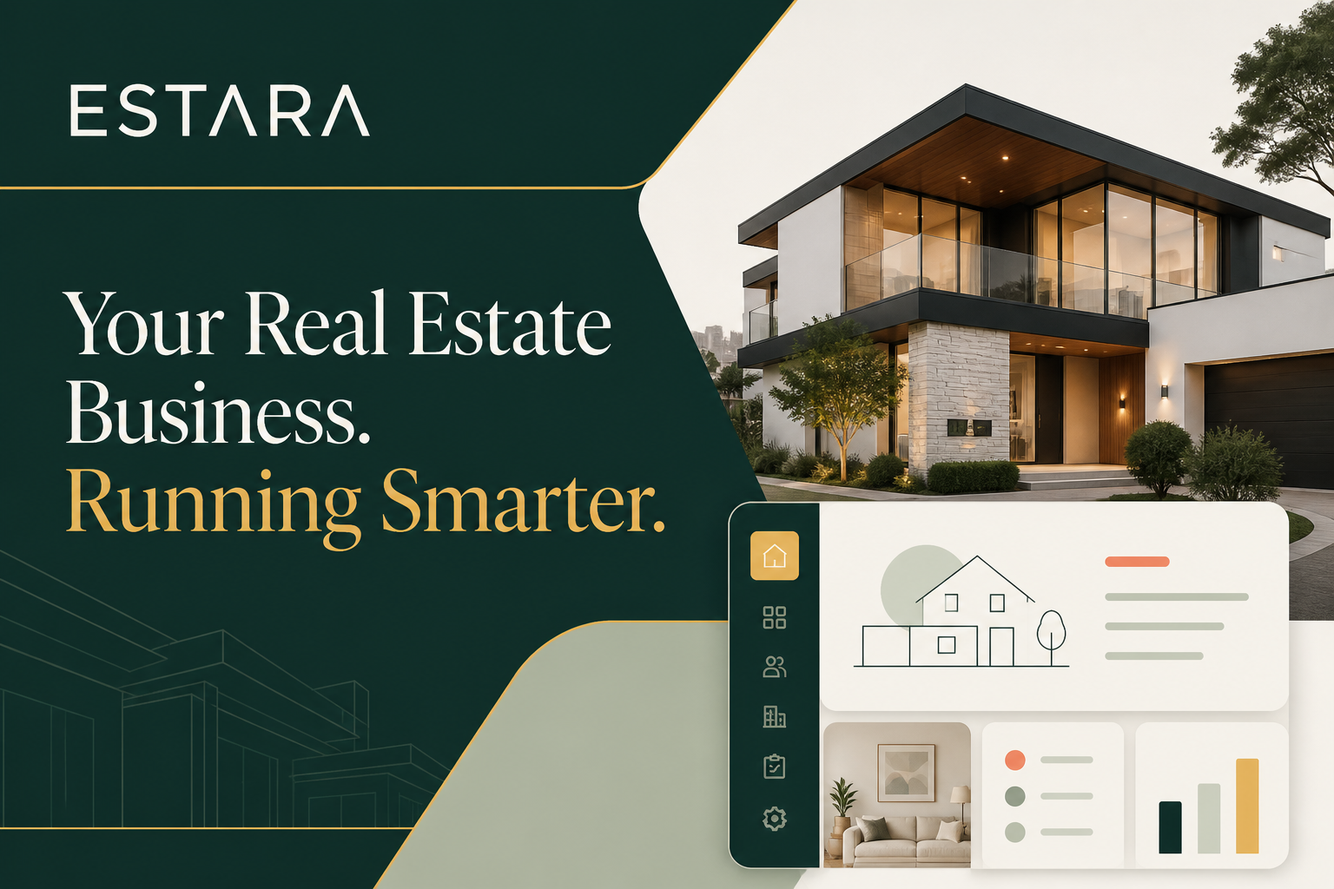
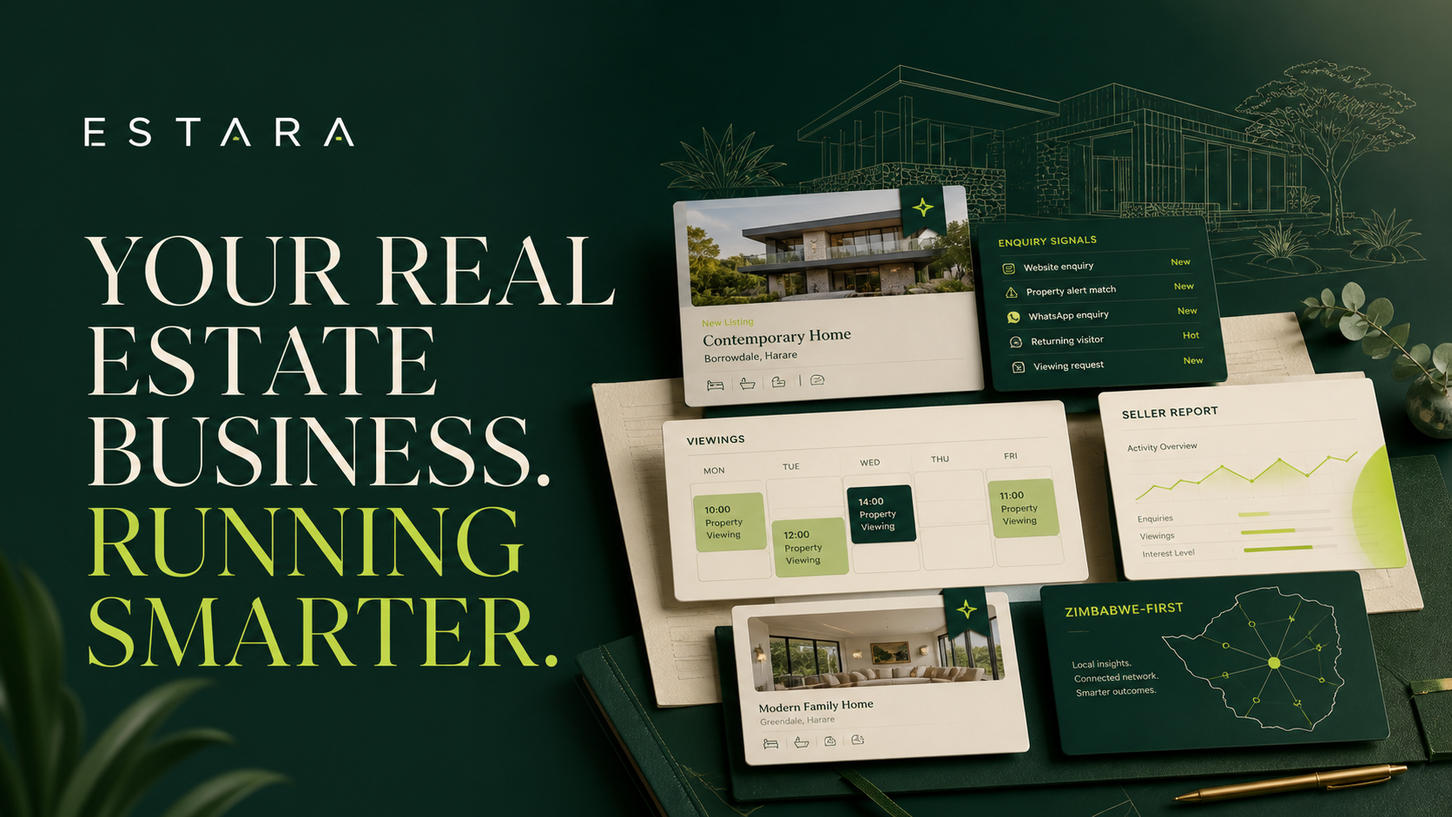
Add premium ESTARA landing and visual system

diff --git a/app/globals.css b/app/globals.css
@@ -8,3 +8,4 @@
 .property-list .thumb{width:58px;height:58px;object-fit:cover;border-radius:8px}.media-upload{display:flex;align-items:center;gap:10px;border:1px dashed #b7c9c2;background:#f5f8f6;border-radius:10px;padding:13px;margin:16px 0;cursor:pointer}.media-upload strong{font-size:11px}.media-upload small{color:var(--muted);margin-right:auto}.media-upload input{max-width:230px}.media-strip{display:flex;gap:8px;overflow:auto}.media-strip img{width:88px;height:68px;object-fit:cover;border-radius:8px}.logo-upload{display:grid!important;grid-template-columns:100px 1fr;align-items:center;gap:8px}.logo-upload img{grid-row:1/4;width:84px;height:84px;object-fit:contain;border:1px solid var(--line);border-radius:10px;padding:6px}.logo-upload small{color:var(--muted)}.caption-preview{min-height:430px;border-radius:12px;background:#f4f7f5;padding:45px;display:flex;flex-direction:column;justify-content:center}.caption-preview small{color:var(--green);font-weight:800}.caption-preview p{font:24px/1.6 Georgia,serif;color:var(--ink)}
 .public-brand>img{width:52px;height:52px;object-fit:contain;border-radius:8px;background:#fff}
 .seller-open{text-decoration:none}.seller-admin-hero{display:grid;grid-template-columns:1.2fr .8fr;gap:32px;padding:34px;border-radius:18px;background:linear-gradient(125deg,#113d34,#1d5a4c);color:#fff;box-shadow:var(--shadow);margin-bottom:20px}.seller-admin-hero>div>span,.seller-public section>div>span,.seller-trust>span,.seller-report-card>div>span{font-size:9px;letter-spacing:.14em;color:var(--gold);font-weight:800}.seller-admin-hero h2{font:32px/1.1 Georgia,serif;margin:12px 0}.seller-admin-hero p{color:#c8ded6;line-height:1.6}.seller-admin-hero form{background:#fff;color:var(--ink);border-radius:12px;padding:18px;display:grid;gap:12px}.seller-admin-hero label{font-size:9px;font-weight:800}.seller-admin-hero input,.seller-admin-hero select{display:block;width:100%;margin-top:6px;border:1px solid var(--line);border-radius:8px;padding:10px}.seller-admin-grid{display:grid;grid-template-columns:.8fr 1.2fr;gap:18px}.seller-admin-row{display:grid;grid-template-columns:1fr auto auto;align-items:center;gap:10px;padding:14px 18px;border-top:1px solid var(--line)}.seller-admin-row strong,.seller-admin-row small{display:block}.seller-admin-row small{color:var(--muted);margin-top:4px}.seller-admin-row em,.seller-report-row em{font-style:normal;font-size:8px;text-transform:uppercase;padding:5px 7px;border-radius:99px;background:#f6edd2;color:#795d12}.seller-admin-row em.accepted{background:#e5f3ec;color:#205b4d}.seller-admin-row em.revoked{background:#f8e8e4;color:#9b4033}.seller-report-row{padding:18px;border-top:1px solid var(--line)}.seller-report-row strong,.seller-report-row small{display:block}.seller-report-row small{color:var(--muted);margin-top:5px}.seller-report-row p{line-height:1.55;color:#50655e}.seller-report-row footer{display:flex;align-items:center;justify-content:space-between}.seller-public{--seller-green:#123e35;min-height:100vh;background:#f4f3ee;color:#17362f;font-family:Arial,sans-serif}.seller-public *{box-sizing:border-box}.seller-public>header{height:84px;padding:0 clamp(18px,6vw,84px);display:flex;align-items:center;justify-content:space-between;background:#fff;border-bottom:1px solid #dce5e0}.seller-public>header>div{display:flex;align-items:center;gap:16px;font-size:10px}.seller-public>header a{color:#17362f;font-weight:800}.seller-wordmark i{width:42px;height:42px;border-radius:12px;background:#123e35;color:#e9c665;display:grid;place-items:center;font-style:normal;font:700 14px Georgia,serif}.seller-wordmark strong,.seller-wordmark small{display:block}.seller-wordmark small{font-size:7px;letter-spacing:.1em;color:#72847d;margin-top:3px}.seller-cover{min-height:430px;padding:70px clamp(24px,8vw,120px);display:flex;justify-content:space-between;align-items:end;background:linear-gradient(110deg,#123e35,#246553);background-size:cover;background-position:center;color:#fff}.seller-cover h1{font:clamp(42px,6vw,76px)/1 Georgia,serif;max-width:820px;margin:14px 0}.seller-cover p{color:#d4e3dd}.seller-cover select{margin-top:18px;padding:10px 12px;border:1px solid #ffffff55;border-radius:8px;background:#ffffff15;color:#fff}.seller-cover aside{text-align:right}.seller-cover aside em{display:block;font-style:normal;color:#e9c665;font:36px Georgia,serif}.seller-cover aside small{color:#c4d8d0}.seller-metrics{display:grid;grid-template-columns:repeat(3,1fr);margin:-34px auto 0;position:relative;width:min(1050px,calc(100% - 36px));background:#fff;border-radius:16px;box-shadow:0 20px 60px #17362f1c}.seller-metrics article{padding:28px 34px;border-right:1px solid #e0e7e3}.seller-metrics article:last-child{border:0}.seller-metrics strong{display:block;font:40px Georgia,serif}.seller-metrics span{font-size:9px;color:#6d7d77}.seller-report-grid{display:grid;grid-template-columns:1.35fr .65fr;gap:24px;width:min(1180px,calc(100% - 36px));margin:55px auto;padding-bottom:70px}.seller-report-card,.seller-trust{background:#fff;border:1px solid #dde5e1;border-radius:16px;padding:32px}.seller-report-card>div{display:flex;justify-content:space-between}.seller-report-card time{font-size:9px;color:#71817a}.seller-report-card h2{font:30px/1.35 Georgia,serif}.seller-report-facts{display:flex!important;justify-content:start!important;gap:30px;border-block:1px solid #e0e8e4;padding:20px 0;margin:22px 0}.seller-report-facts span{font-size:9px;color:#71817a}.seller-report-facts strong{display:block;font:26px Georgia,serif;color:#17362f}.seller-report-card aside{background:#edf4f0;padding:18px;border-radius:10px}.seller-report-card aside small{color:#246253;font-weight:800}.seller-report-card aside p{line-height:1.6}.seller-report-card footer{font-size:8px;color:#7c8a85;margin-top:20px}.seller-trust{background:#123e35;color:#fff}.seller-trust h2{font:32px Georgia,serif}.seller-trust p{color:#c5d7d0;line-height:1.7}.seller-trust a{display:inline-block;margin-top:20px;color:#17362f;background:#e9c665;padding:11px 14px;border-radius:7px;text-decoration:none;font-weight:800;font-size:10px}.seller-loading,.seller-empty{min-height:calc(100vh - 84px);display:grid;place-content:center;text-align:center;padding:30px}.seller-loading i{width:44px;height:44px;border:3px solid #d9e3de;border-top-color:#123e35;border-radius:50%;animation:spin .8s linear infinite;margin:auto}.seller-loading h1,.seller-empty h1{font:42px Georgia,serif;max-width:700px}.seller-empty p{color:#697a74}@keyframes spin{to{transform:rotate(360deg)}}@media(max-width:800px){.seller-admin-hero,.seller-admin-grid,.seller-report-grid{grid-template-columns:1fr}.seller-cover{min-height:380px;padding:50px 20px;align-items:start;flex-direction:column}.seller-cover h1{font-size:45px}.seller-cover aside{text-align:left}.seller-metrics{grid-template-columns:1fr;margin:18px auto}.seller-metrics article{border-right:0;border-bottom:1px solid #e0e7e3}.seller-public>header{padding:0 16px}.seller-public>header>div>span{display:none}}
+.estara-landing{--forest:#103a32;--forest-2:#174f43;--lime:#d9f057;--cream:#f5f1e7;--paper:#fbfaf6;--charcoal:#17231f;color:var(--charcoal);background:var(--paper);font-family:Arial,sans-serif;overflow:hidden}.estara-landing *{box-sizing:border-box}.landing-nav{height:88px;padding:0 clamp(22px,6vw,90px);display:flex;align-items:center;border-bottom:1px solid #173c3320;background:#fbfaf6dd;backdrop-filter:blur(16px);position:relative;z-index:20}.landing-logo{display:flex;align-items:center;gap:11px;text-decoration:none;color:inherit}.landing-logo>i{width:43px;height:43px;border-radius:12px;background:var(--forest);color:var(--lime);display:grid;place-items:center;font:italic 700 22px Georgia,serif}.landing-logo strong,.landing-logo span,.landing-logo small{display:block}.landing-logo span{font-weight:900;letter-spacing:.08em;font-size:13px}.landing-logo small{font-size:6px;color:#6d7d77;letter-spacing:.12em;margin-top:4px}.landing-nav>div{display:flex;gap:30px;margin:auto}.landing-nav>div a{font-size:10px;font-weight:700;color:#51645d;text-decoration:none}.landing-signin{border:1px solid #b9c8c1;border-radius:99px;padding:11px 15px;text-decoration:none;color:var(--forest);font-weight:800;font-size:10px}.landing-signin b{margin-left:8px}.landing-hero{min-height:760px;padding:85px clamp(22px,6vw,90px) 70px;display:grid;grid-template-columns:minmax(430px,.82fr) minmax(620px,1.18fr);gap:60px;align-items:center;background:radial-gradient(circle at 82% 20%,#d9f0572d,transparent 25%),linear-gradient(135deg,#fbfaf6,#f2f4eb)}.landing-eyebrow{display:flex;align-items:center;gap:9px;color:#507066;font-size:8px;letter-spacing:.17em;font-weight:900}.landing-eyebrow>i{width:23px;height:1px;background:var(--lime);box-shadow:0 0 0 1px #b4c84b}.landing-hero h1{font:clamp(56px,6vw,92px)/.94 Georgia,serif;letter-spacing:-.055em;margin:25px 0}.landing-hero h1 em,.landing-capabilities h2 em,.landing-africa h2 em{display:block;color:var(--forest-2);font-weight:400}.landing-hero-copy>p{font-size:16px;line-height:1.75;color:#52645d;max-width:610px}.landing-hero-actions{display:flex;align-items:center;gap:20px;margin-top:32px}.landing-hero-actions a:first-child,.landing-workflow>div>a,.landing-final>a{padding:15px 19px;background:var(--forest);color:#fff;text-decoration:none;border-radius:9px;font-size:11px;font-weight:800;box-shadow:0 12px 30px #103a3230}.landing-hero-actions a:first-child b,.landing-workflow>div>a b,.landing-final>a b{color:var(--lime);margin-left:12px}.landing-hero-actions a:last-child{font-size:10px;color:#39544b;font-weight:800}.landing-hero-copy>footer{display:flex;gap:35px;margin-top:62px;padding-top:22px;border-top:1px solid #b8c7c033}.landing-hero-copy>footer strong,.landing-hero-copy>footer small{display:block}.landing-hero-copy>footer strong{font:15px Georgia,serif}.landing-hero-copy>footer small{font-size:8px;color:#76867f;margin-top:5px}.landing-product-stage{position:relative;min-height:590px;display:grid;place-items:center}.landing-orbit{position:absolute;border:1px solid #718e8333;border-radius:50%}.orbit-one{width:620px;height:620px}.orbit-two{width:470px;height:470px}.landing-window{position:relative;width:min(720px,100%);height:500px;background:#eef3f0;border:8px solid #fff;border-radius:18px;box-shadow:0 45px 100px #173d3330;display:grid;grid-template-columns:135px 1fr;grid-template-rows:62px 1fr;overflow:hidden;transform:perspective(1200px) rotateY(-4deg) rotateX(1deg)}.landing-window>header{grid-column:1/-1;background:#fff;display:flex;align-items:center;justify-content:space-between;padding:0 16px;border-bottom:1px solid #e3eae6}.landing-window>header>div{display:flex;gap:8px;align-items:center}.landing-window>header>div>i{width:27px;height:27px;background:var(--forest);color:var(--lime);border-radius:7px;display:grid;place-items:center;font-style:normal;font-weight:900}.landing-window>header span,.landing-window>header small{display:block;font-size:8px;font-weight:900}.landing-window>header small{font-size:5px;color:#7b8984;margin-top:2px}.landing-window>header button{border:0;background:var(--forest);color:#fff;border-radius:6px;padding:8px 10px;font-size:7px}.landing-window>aside{background:var(--forest);color:#c6d9d2;padding:18px 10px}.landing-window>aside span{display:flex;align-items:center;gap:8px;padding:10px;border-radius:6px;font-size:7px;margin-bottom:3px}.landing-window>aside span.active{background:#ffffff16;color:#fff}.landing-window>aside i{font-style:normal;color:var(--lime)}.landing-window>article{padding:30px}.landing-demo-label{font-size:6px;color:#577067;font-weight:800;letter-spacing:.14em}.landing-window>article>h2{font:25px Georgia,serif;margin:8px 0 22px}.landing-kpis{display:grid;grid-template-columns:repeat(3,1fr);gap:10px}.landing-kpis>div{background:#fff;border:1px solid #dfe8e3;border-radius:8px;padding:13px}.landing-kpis small,.landing-kpis strong,.landing-kpis em{display:block}.landing-kpis small{font-size:5px;color:#71847c}.landing-kpis strong{font:24px Georgia,serif;margin:7px 0}.landing-kpis em{font-size:6px;color:#30705f;font-style:normal}.landing-focus{background:#fff;border:1px solid #dfe8e3;border-radius:9px;margin-top:13px}.landing-focus>header{padding:13px;display:flex;justify-content:space-between;border-bottom:1px solid #edf1ef;font-size:7px}.landing-focus>header span{color:#397262}.landing-focus>div{display:grid;grid-template-columns:28px 1fr auto;align-items:center;gap:9px;padding:10px 13px;border-bottom:1px solid #edf1ef}.landing-focus>div>b{width:27px;height:27px;border-radius:50%;background:#e6efe9;display:grid;place-items:center;font-size:6px}.landing-focus>div span strong,.landing-focus>div span small{display:block;font-size:7px}.landing-focus>div span small{font-size:6px;color:#75847f;margin-top:3px}.landing-focus>div em{font-size:6px;color:#476258;font-style:normal}.landing-float{position:absolute;background:#fff;border:1px solid #dde7e2;border-radius:11px;padding:12px 15px;display:flex;align-items:center;gap:10px;box-shadow:0 18px 50px #143b3228;z-index:3}.landing-float>i{width:31px;height:31px;border-radius:50%;background:#e9f5ca;color:#3b5c25;display:grid;place-items:center;font-style:normal}.landing-float strong,.landing-float small{display:block;font-size:8px}.landing-float small{font-size:6px;color:#7a8983;margin-top:4px}.float-one{left:-25px;bottom:28px}.float-two{right:-15px;top:18px}.landing-proof{padding:30px clamp(22px,6vw,90px);background:var(--forest);color:#fff;text-align:center}.landing-proof>span{font-size:7px;letter-spacing:.2em;color:#97afa6}.landing-proof>div{display:flex;justify-content:center;gap:clamp(20px,5vw,70px);margin-top:20px;flex-wrap:wrap}.landing-proof strong{font:17px Georgia,serif;color:#dce8e3}.landing-capabilities{padding:110px clamp(22px,7vw,110px);background:var(--paper)}.landing-capabilities>header{display:grid;grid-template-columns:1fr 1fr;gap:70px;align-items:end}.landing-capabilities h2,.landing-africa h2{font:clamp(48px,6vw,78px)/.98 Georgia,serif;letter-spacing:-.04em;margin:18px 0 0}.landing-capabilities>header>p{color:#61736c;line-height:1.8;max-width:580px}.landing-cap-grid{display:grid;grid-template-columns:repeat(4,1fr);margin-top:65px;border:1px solid #d7e0dc}.landing-cap-grid article{min-height:320px;padding:25px;border-right:1px solid #d7e0dc;position:relative;transition:.25s}.landing-cap-grid article:last-child{border:0}.landing-cap-grid article:hover{background:var(--forest);color:#fff;transform:translateY(-7px)}.landing-cap-grid article>span{font-size:8px;color:#71837b}.landing-cap-grid article>i{position:absolute;right:22px;top:22px;font-style:normal}.landing-cap-grid h3{font:27px/1.12 Georgia,serif;margin-top:115px}.landing-cap-grid p{font-size:10px;line-height:1.7;color:#687a73}.landing-cap-grid article:hover p{color:#bcd0c8}.landing-workflow{display:grid;grid-template-columns:1fr 1fr;gap:100px;padding:110px clamp(22px,7vw,110px);background:#e9eee7}.landing-workflow h2{font:clamp(42px,5vw,66px)/1.05 Georgia,serif;margin:22px 0}.landing-workflow p{color:#60736b;line-height:1.8;max-width:600px;margin-bottom:35px}.landing-workflow ol{margin:0;padding:0;list-style:none;border-top:1px solid #b8c6c0}.landing-workflow li{display:grid;grid-template-columns:45px 1fr auto;align-items:center;padding:20px 5px;border-bottom:1px solid #b8c6c0}.landing-workflow li span{font-size:8px;color:#71827b}.landing-workflow li strong{font:23px Georgia,serif}.landing-workflow li i{font-style:normal;color:#506c63}.landing-africa{padding:120px clamp(22px,7vw,110px);background:var(--cream);display:grid;grid-template-columns:1.3fr .7fr;gap:100px;align-items:center}.landing-africa>div>p{max-width:720px;line-height:1.8;color:#5f706a}.landing-africa>div>div{display:flex;gap:12px;flex-wrap:wrap;margin-top:28px}.landing-africa>div>div span{border:1px solid #b5c4bd;border-radius:99px;padding:9px 12px;font-size:8px;font-weight:800}.landing-africa>aside{aspect-ratio:1;border-radius:50%;background:var(--forest);color:#fff;display:grid;place-items:center;position:relative;padding:50px;text-align:center}.landing-africa>aside>span{font:clamp(80px,12vw,170px) Georgia,serif;color:#ffffff0b;position:absolute}.landing-africa>aside strong{font:32px Georgia,serif;color:var(--lime)}.landing-africa>aside p{font-size:10px;line-height:1.7;color:#c6d8d1}.landing-final{padding:120px 25px;text-align:center;background:linear-gradient(135deg,#103a32,#1b5648);color:#fff}.landing-final>span{font-size:8px;letter-spacing:.2em;color:var(--lime)}.landing-final h2{font:clamp(46px,6vw,80px) Georgia,serif;margin:20px auto;max-width:900px}.landing-final p{color:#c5d7d0}.landing-final>a{display:inline-block;background:var(--lime);color:var(--forest);margin-top:25px}.landing-final>a b{color:var(--forest)}.landing-footer{padding:42px clamp(22px,6vw,90px);display:grid;grid-template-columns:1fr 1fr auto auto;align-items:center;gap:30px;background:#0c2d27;color:#fff}.landing-footer .landing-logo small{color:#8da39b}.landing-footer>p{font:18px Georgia,serif;color:#c9d8d3}.landing-footer>div{display:flex;gap:18px}.landing-footer>div a,.landing-footer>small{color:#9db0a9;font-size:8px;text-decoration:none}@media(max-width:1100px){.landing-hero{grid-template-columns:1fr;padding-top:65px}.landing-hero-copy{max-width:760px}.landing-product-stage{margin-top:30px}.landing-cap-grid{grid-template-columns:1fr 1fr}.landing-cap-grid article:nth-child(2){border-right:0}.landing-cap-grid article{border-bottom:1px solid #d7e0dc}.landing-africa{gap:45px}}@media(max-width:720px){.landing-nav{height:72px;padding-inline:16px}.landing-nav>div{display:none}.landing-signin{margin-left:auto}.landing-hero{padding:55px 18px;min-height:auto}.landing-hero h1{font-size:55px}.landing-hero-copy>p{font-size:14px}.landing-hero-copy>footer{flex-direction:column;gap:16px;margin-top:40px}.landing-product-stage{min-height:420px}.landing-window{height:370px;grid-template-columns:90px 1fr;transform:none}.landing-window>article{padding:16px}.landing-kpis{grid-template-columns:1fr 1fr}.landing-kpis>div:last-child{display:none}.landing-focus>div em{display:none}.landing-orbit{display:none}.landing-float{display:none}.landing-capabilities,.landing-workflow,.landing-africa{padding:75px 18px}.landing-capabilities>header,.landing-workflow,.landing-africa{grid-template-columns:1fr;gap:45px}.landing-capabilities h2,.landing-africa h2{font-size:50px}.landing-cap-grid{grid-template-columns:1fr}.landing-cap-grid article{border-right:0;min-height:250px}.landing-cap-grid h3{margin-top:70px}.landing-africa>aside{width:min(390px,100%);margin:auto}.landing-footer{grid-template-columns:1fr}.landing-footer>p{margin:0}.landing-final{padding:85px 18px}.landing-final h2{font-size:51px}}

diff --git a/app/page.tsx b/app/page.tsx
@@ -1,2 +1,21 @@
-import EstaraApp from "./estara-app";
-export default function Home(){ return <EstaraApp/> }
+import Link from "next/link";
+
+const capabilities=[
+  {number:"01",title:"Capture property once",text:"Structured property records, mobile photo upload and listing readiness in one guided workflow."},
+  {number:"02",title:"Never lose the next action",text:"Every enquiry, viewing and follow-up stays assigned, timed and visible to the right person."},
+  {number:"03",title:"Market with confidence",text:"Agency-branded websites, property pages and channel-ready creative built from verified facts."},
+  {number:"04",title:"Keep sellers informed",text:"Secure property-level access and reviewed reports powered by live, measurable activity."},
+];
+const flow=["Add your agency","Capture a property","Publish everywhere","Respond on time","Report with evidence"];
+
+export default function Home(){return <main className="estara-landing">
+  <nav className="landing-nav"><Link href="/" className="landing-logo"><i>E</i><span>ESTARA<small>A HouseLink product</small></span></Link><div><a href="#platform">Platform</a><a href="#workflow">How it works</a><a href="#built-for">Built for Africa</a></div><Link className="landing-signin" href="/workspace">Open workspace <b>↗</b></Link></nav>
+  <section className="landing-hero"><div className="landing-hero-copy"><span className="landing-eyebrow"><i/> ZIMBABWE-FIRST REAL ESTATE OS</span><h1>Your real estate business.<em>Running smarter.</em></h1><p>ESTARA brings properties, clients, follow-ups, viewings, marketing, agency websites and seller reporting into one calm, connected operating system.</p><div className="landing-hero-actions"><Link href="/workspace">Enter your workspace <b>→</b></Link><a href="#workflow">See the full workflow</a></div><footer><div><strong>One source of truth</strong><small>From first capture to seller report</small></div><div><strong>Built for accountability</strong><small>Clear ownership, deadlines and audit history</small></div></footer></div>
+  <div className="landing-product-stage"><div className="landing-orbit orbit-one"/><div className="landing-orbit orbit-two"/><section className="landing-window"><header><div><i>E</i><span>ESTARA<small>Prime Property</small></span></div><button>＋ Add property</button></header><aside>{["Today","Properties","Enquiries","Marketing","Seller centre"].map((item,index)=><span className={index===0?"active":""} key={item}><i>{["⌂","◇","◎","✦","◌"][index]}</i>{item}</span>)}</aside><article><span className="landing-demo-label">GOOD MORNING, SARAH</span><h2>Everything that needs attention, today.</h2><div className="landing-kpis"><div><small>NEW ENQUIRIES</small><strong>12</strong><em>4 need a response</em></div><div><small>NEXT ACTIONS</small><strong>8</strong><em>2 overdue</em></div><div><small>VIEWINGS</small><strong>5</strong><em>Next at 11:30</em></div></div><section className="landing-focus"><header><strong>Priority follow-ups</strong><span>Live workspace</span></header>{[["TM","Tariro Moyo","Garden sanctuary","Respond · 8 min"],["DN","Daniel Ncube","Modern family home","Viewing · 11:30"],["NZ","N. Zhou","Sunlit townhouse","Follow up · Today"]].map(row=><div key={row[1]}><b>{row[0]}</b><span><strong>{row[1]}</strong><small>{row[2]}</small></span><em>{row[3]}</em></div>)}</section></article></section><div className="landing-float float-one"><i>✓</i><span><strong>Seller report approved</strong><small>Built from verified activity</small></span></div><div className="landing-float float-two"><i>↗</i><span><strong>Property is live</strong><small>Website and marketing ready</small></span></div></div></section>
+  <section className="landing-proof"><span>ONE CONNECTED SYSTEM FOR</span><div>{["Independent agencies","Multi-agent teams","Property sellers","Rental portfolios","Diaspora owners"].map(item=><strong key={item}>{item}</strong>)}</div></section>
+  <section className="landing-capabilities" id="platform"><header><div><span className="landing-eyebrow"><i/> THE OPERATING LAYER</span><h2>Less chasing.<br/><em>More moving.</em></h2></div><p>ESTARA turns daily real estate work into a visible system—so the whole agency knows what happened, what matters now and what must happen next.</p></header><div className="landing-cap-grid">{capabilities.map(item=><article key={item.number}><span>{item.number}</span><i>↗</i><h3>{item.title}</h3><p>{item.text}</p></article>)}</div></section>
+  <section className="landing-workflow" id="workflow"><div><span className="landing-eyebrow"><i/> ONE CONTINUOUS WORKFLOW</span><h2>From a property name to a professional operating rhythm.</h2><p>Every step feeds the next. No double capture. No disconnected spreadsheets. No activity disappearing into private chats.</p><Link href="/workspace">Start inside ESTARA <b>→</b></Link></div><ol>{flow.map((item,index)=><li key={item}><span>0{index+1}</span><strong>{item}</strong><i>{index<flow.length-1?"↓":"✓"}</i></li>)}</ol></section>
+  <section className="landing-africa" id="built-for"><div><span className="landing-eyebrow"><i/> BUILT FROM THE MARKET OUTWARD</span><h2>Global-grade software.<br/><em>Grounded in how Africa moves.</em></h2><p>Mobile-first property work, WhatsApp-ready communication, low-data thinking, diaspora visibility and practical agency accountability—designed into the operating model.</p><div>{["Mobile-led","WhatsApp-ready","USD-aware","Diaspora-friendly"].map(item=><span key={item}>✓ {item}</span>)}</div></div><aside><span>ZW</span><div><strong>Zimbabwe first.</strong><p>Designed to expand across African property markets without losing local relevance.</p></div></aside></section>
+  <section className="landing-final"><span>YOUR NEXT PROPERTY DESERVES A BETTER SYSTEM</span><h2>Run the agency your ambition requires.</h2><p>One workspace. Clear ownership. Professional output. Trusted client and seller experiences.</p><Link href="/workspace">Open ESTARA <b>→</b></Link></section>
+  <footer className="landing-footer"><Link href="/" className="landing-logo"><i>E</i><span>ESTARA<small>A HouseLink product</small></span></Link><p>Real estate, professionally operated.</p><div><Link href="/workspace">Workspace</Link><Link href="/seller">Seller portal</Link></div><small>© 2026 ESTARA</small></footer>
+ </main>}

diff --git a/app/site/[slug]/properties/[id]/page.tsx b/app/site/[slug]/properties/[id]/page.tsx
@@ -1,5 +1,6 @@
 import type { Metadata } from "next";
 import { notFound } from "next/navigation";
+import { headers } from "next/headers";
 import { getPublicAgency, getPublicProperty, listPublicProperties } from "../../../../../db/public-site";
 import { PageView, PublicEnquiryForm, ShareButton, TrackedLink } from "../../public-client";
 import { PropertyGrid, PublicFooter, PublicHeader } from "../../public-website";
@@ -13,12 +14,15 @@ export async function generateMetadata({ params }: { params: Promise<{ slug: str
   if (!agency) return { robots: { index: false, follow: false } };
   const property = await getPublicProperty(agency.id, id);
   if (!property) return { robots: { index: false, follow: false } };
-  const image = property.heroMediaId ? `/api/public/${slug}/media?id=${encodeURIComponent(property.heroMediaId)}` : undefined;
+  const requestHeaders=await headers(),host=requestHeaders.get("host")||"localhost:3000",protocol=requestHeaders.get("x-forwarded-proto")||"https";
+  const image = property.heroMediaId ? `${protocol}://${host}/api/public/${slug}/media?id=${encodeURIComponent(property.heroMediaId)}` : undefined;
+  const description=`${property.transactionType} in ${property.location}. ${property.beds} bedrooms, ${property.baths} bathrooms.`;
   return {
     title: `${property.title} | ${agency.name}`,
-    description: `${property.transactionType} in ${property.location}. ${property.beds} bedrooms, ${property.baths} bathrooms.`,
+    description,
     alternates: { canonical: `/site/${slug}/properties/${id}` },
-    openGraph: { title: property.title, description: `${property.price} · ${property.location}`, type: "website", ...(image ? { images: [image] } : {}) },
+    openGraph: { title: property.title, description, type: "website", images:image?[image]:[] },
+    twitter:{card:"summary_large_image",title:property.title,description,images:image?[image]:[]},
   };
 }
 

diff --git a/app/invite/invite-client.tsx b/app/invite/invite-client.tsx
@@ -1,1 +1,1 @@
-"use client";import{useEffect,useState}from"react";export default function InviteClient(){const[state,setState]=useState("Accepting your invitation...");useEffect(()=>{const token=new URLSearchParams(location.search).get("token")||"";fetch("/api/team/accept",{method:"POST",headers:{"content-type":"application/json"},body:JSON.stringify({token})}).then(async r=>{const d=await r.json();if(!r.ok)throw new Error(d.error);setState("Invitation accepted. Your agency workspace is ready.")}).catch(e=>setState(e.message||"This invitation could not be accepted."))},[]);return <main className="onboarding"><section className="onboarding-card"><div className="brand"><i>E</i><span>ESTARA<small>Team invitation</small></span></div><h1>{state}</h1><p>ESTARA verifies the signed-in email before granting agency access.</p><a className="primary invite-link" href="/">Open workspace</a></section></main>}
+"use client";import{useEffect,useState}from"react";export default function InviteClient(){const[state,setState]=useState("Accepting your invitation...");useEffect(()=>{const token=new URLSearchParams(location.search).get("token")||"";fetch("/api/team/accept",{method:"POST",headers:{"content-type":"application/json"},body:JSON.stringify({token})}).then(async r=>{const d=await r.json();if(!r.ok)throw new Error(d.error);setState("Invitation accepted. Your agency workspace is ready.")}).catch(e=>setState(e.message||"This invitation could not be accepted."))},[]);return <main className="onboarding"><section className="onboarding-card"><div className="brand"><i>E</i><span>ESTARA<small>Team invitation</small></span></div><h1>{state}</h1><p>ESTARA verifies the signed-in email before granting agency access.</p><a className="primary invite-link" href="/workspace">Open workspace</a></section></main>}

diff --git a/app/workspace/page.tsx b/app/workspace/page.tsx
@@ -1,0 +1,3 @@
+import EstaraApp from "../estara-app";
+export const dynamic="force-dynamic";
+export default function Workspace(){return <EstaraApp/>}
